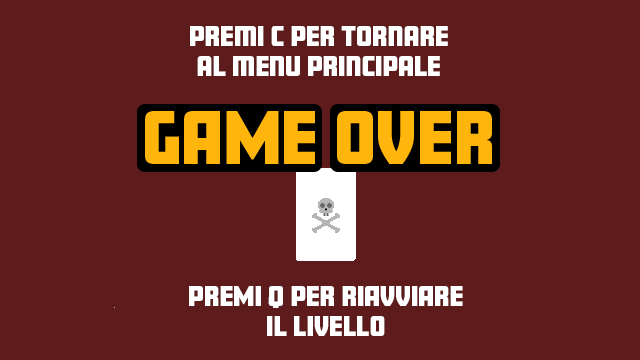
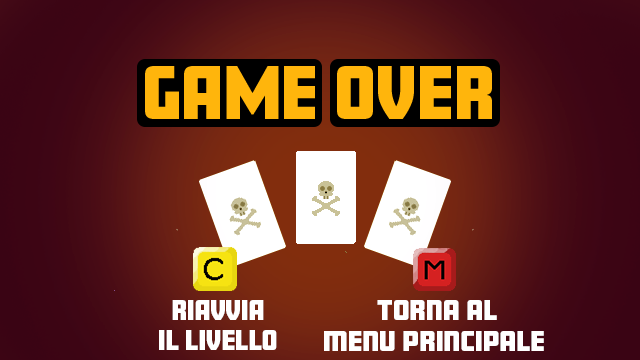
aggiunto checkpoint collezionabili, cassa nuova, schermata di morte

diff --git a/src/Scene/level1.js b/src/Scene/level1.js
@@ -1,4 +1,5 @@
 let bg;
+let bg_sopra;
 let sfondott0;
 let sfondott1;
 let sfondott2;
@@ -10,6 +11,7 @@ let img_volte;
 let volte_dietro;
 let img_slot_nuove;
 let colonne_davanti;
+let colonne_davanti_sopra;
 let slot_nuove;
 let img_moquette;
 let moquette;
@@ -113,6 +115,8 @@ function create (s) {
 
     bg = PP.assets.tilesprite.add(s, img_background, 0, 30, 2800, 380, 0, 0);
     bg.tile_geometry.scroll_factor_x = 0.1;
+    bg_sopra = PP.assets.tilesprite.add(s, img_background, 0, -600, 2800, 380, 0, 0);
+    bg_sopra.tile_geometry.scroll_factor_x = 0.1;
     
     volte_dietro = PP.assets.tilesprite.add(s, img_volte, -2000, 100, 20000, 453, 0, 0);
     volte_dietro.tile_geometry.scroll_factor_x = 0.1;
@@ -132,8 +136,14 @@ function create (s) {
     colonne_davanti = PP.assets.tilesprite.add(s, img_colonne, 0, 0, 2800, 650, 0, 0);
     colonne_davanti.tile_geometry.scroll_factor_x = 0;
 
+    colonne_davanti_sopra = PP.assets.tilesprite.add(s, img_colonne, 0, -650, 2800, 650, 0, 0);
+    colonne_davanti_sopra.tile_geometry.scroll_factor_x = 0;
+
+
     bg.geometry.scale_x = 1.7;
     bg.geometry.scale_y = 1.7;
+    bg_sopra.geometry.scale_x = 1.7;
+    bg_sopra.geometry.scale_y = 1.7;
     //bg.tile_geometry.scroll_factor_y = 0;
     //pavimento
     let bgtt0 = PP.assets.image.add(s, sfondott0, -3566, 0, 0, 0);
@@ -632,8 +642,10 @@ function create (s) {
 function update (s) {
 
     bg.tile_geometry.x = PP.camera.get_scroll_x(s) * 1/(2+1);
+    bg_sopra.tile_geometry.x = PP.camera.get_scroll_x(s) * 1/(2+1);
     slot_nuove.tile_geometry.x = PP.camera.get_scroll_x(s) * 0.8;
     colonne_davanti.tile_geometry.x = PP.camera.get_scroll_x(s) * 1.1;
+    colonne_davanti_sopra.tile_geometry.x = PP.camera.get_scroll_x(s) * 1.1;
     moquette.tile_geometry.x = PP.camera.get_scroll_x(s) * 1.1;
     //bg.tile_geometry.y = PP.camera.get_scroll_y(s);
 
@@ -675,8 +687,8 @@ function update (s) {
     // per porta finale
     
     if(chiusura_porta_finale == false){
-        porte[1].geometry.y = 0;
-        porte[1].geometry.body_y = 0;
+        porte[1].geometry.y = -50;
+        porte[1].geometry.body_y = -50;
     }
 
     if(chiusura_porta_finale == true){

diff --git a/src/Scene/level3.js b/src/Scene/level3.js
@@ -2,7 +2,6 @@ let img_pavimento;
 let img_muro;
 
 
-
 let img_bg3;
 
 let ascensore1_3;
@@ -29,6 +28,9 @@ function preload (s){
 }
 
 function create (s){
+    PP.game_state.set_variable("Monete_checkpoint", PP.game_state.get_variable("Monete"));
+    PP.game_state.set_variable("Lettere_checkpoint", PP.game_state.get_variable("Lettere"));
+
     PP.game_state.set_variable("Monete", 5);
     let bg = PP.assets.image.add (s, img_bg3, -20, -200, 0, 0);
     let bg_2 = PP.assets.image.add (s, img_bg3, 1180, -200, 0, 0);
@@ -96,12 +98,12 @@ function update (s){
 }
 
 function goto_final(s) {
-    if (PP.game_state.get_variable("Lettere") >= 6 && condizione_finale3 == true ) {
+    if (PP.game_state.get_variable("Lettere") >= 5 && condizione_finale3 == true ) {
         PP.scenes.start("Finale3");
         return;
     }
 
-    if (PP.game_state.get_variable("Lettere") >= 6 && condizione_finale3 == false ) {
+    if (PP.game_state.get_variable("Lettere") >= 5 && condizione_finale3 == false ) {
         PP.scenes.start("Finale2");
         return;
     }

diff --git a/src/Scene/morte3.js b/src/Scene/morte3.js
@@ -7,6 +7,8 @@ function preload (s) {
 }
 
 function create (s) {
+    PP.game_state.set_variable("Monete", PP.game_state.get_variable("Monete_checkpoint"));
+    PP.game_state.set_variable("Lettere", PP.game_state.get_variable("Lettere_checkpoint"));
     let mortis = PP.assets.image.add (s, sfondo_mortis2, 0, 0, 0, 0);
     mortis.geometry.scale_x = 2;
     mortis.geometry.scale_y = 2;    
@@ -51,11 +53,11 @@ function create (s) {
 
 function update (s) {
     
-    if(PP.interactive.kb.is_key_down(s, PP.key_codes.Q)) {
+    if(PP.interactive.kb.is_key_down(s, PP.key_codes.C)) {
         //riavvia la partita
         console.log("sus");
         PP.scenes.start("level3");
-        if(PP.interactive.kb.is_key_down(s, PP.key_codes.C)) {
+        if(PP.interactive.kb.is_key_down(s, PP.key_codes.M)) {
             //riavvia la partita
             console.log("sus");
             PP.scenes.start("Main_Menu");

diff --git a/src/Scene/morte2.js b/src/Scene/morte2.js
@@ -5,6 +5,8 @@ function preload (s) {
 }
 
 function create (s) {
+    PP.game_state.set_variable("Monete", PP.game_state.get_variable("Monete_checkpoint"));
+    PP.game_state.set_variable("Lettere", PP.game_state.get_variable("Lettere_checkpoint"));
     let mortis = PP.assets.image.add (s, sfondo_mortis, 0, 0, 0, 0);
     mortis.geometry.scale_x = 2;
     mortis.geometry.scale_y = 2;
@@ -48,11 +50,11 @@ function create (s) {
 
 function update (s) {
     
-    if(PP.interactive.kb.is_key_down(s, PP.key_codes.Q)) {
+    if(PP.interactive.kb.is_key_down(s, PP.key_codes.C)) {
         //riavvia la partita
         console.log("sus");
         PP.scenes.start("level2");
-        if(PP.interactive.kb.is_key_down(s, PP.key_codes.C)) {
+        if(PP.interactive.kb.is_key_down(s, PP.key_codes.M)) {
             //riavvia la partita
             console.log("sus");
             PP.scenes.start("Main_Menu");

diff --git a/index.html b/index.html
@@ -4,7 +4,6 @@
         <title>I compari mulattieri</title>
         <script src="lib/phaser.min.js"></script>
         <script src="lib/poliphaser.js"></script>
-        <script src="src/Scene/Main_Menu.js" type="module"></script>
         <script src="src/Scene/level2.js" type="module"></script>
         <script src="src/Scene/Storia.js" type="module"></script>
         <script src="src/Scene/Crediti.js" type="module"></script>
@@ -13,7 +12,8 @@
         <script src="src/Scene/Finale3.js" type="module"></script>
         <script src="src/Scene/level1.js" type="module"></script>
         <script src="src/Scene/level3.js" type="module"></script>
-        
+        <script src="src/Scene/Main_Menu.js" type="module"></script>
+
         
 
         <script src="src/Scene/morte.js" type="module"></script>

diff --git a/src/Scene/morte.js b/src/Scene/morte.js
@@ -6,6 +6,8 @@ function preload (s) {
 }
 
 function create (s) {
+    PP.game_state.set_variable("Monete", 0);
+    PP.game_state.set_variable("Lettere", 0);
     let mortis = PP.assets.image.add (s, sfondo_mortis0, 0, 0, 0, 0);
     mortis.geometry.scale_x = 2;
     mortis.geometry.scale_y = 2;
@@ -49,13 +51,13 @@ function create (s) {
 
 function update (s) {
     
-    if(PP.interactive.kb.is_key_down(s, PP.key_codes.Q)) {
+    if(PP.interactive.kb.is_key_down(s, PP.key_codes.C)) {
         //riavvia la partita
         console.log("sus");
         PP.scenes.start("level1");
     }
 
-    if(PP.interactive.kb.is_key_down(s, PP.key_codes.C)) {
+    if(PP.interactive.kb.is_key_down(s, PP.key_codes.M)) {
         //riavvia la partita
         console.log("sus");
         PP.scenes.start("Main_Menu");

diff --git a/src/Scene/level2.js b/src/Scene/level2.js
@@ -34,6 +34,11 @@ let ILBUCO;
 let ILBUCOscenico;
 
 
+
+  //score_attuale2_1 = PP.game_state.get_variable("Monete");
+    //score_attuale2_2 = PP.game_state.get_variable("Lettere");
+    
+
 livello.push(2);
 
 
@@ -84,11 +89,13 @@ function preload (s) {
 
 function create (s) {
 
+    PP.game_state.set_variable("Monete_checkpoint", PP.game_state.get_variable("Monete"));
+    PP.game_state.set_variable("Lettere_checkpoint", PP.game_state.get_variable("Lettere"));
+    
     
     //zona iniziale
    
-
-    
+  
     
     bg3 = PP.assets.tilesprite.add(s, sfondo23, 0, -140, 0, 0, 0, 0);
     bg3.tile_geometry.scroll_factor_x = 0;

diff --git a/src/Collezionabili.js b/src/Collezionabili.js
@@ -7,6 +7,10 @@ let monete_conto;
 PP.game_state.set_variable ("Lettere", 0);
 PP.game_state.set_variable ("Monete", 0);
 
+PP.game_state.set_variable ("Lettere_checkpoint", 0);
+PP.game_state.set_variable ("Monete_checkpoint", 0);
+
+
 function preload_score (s) {
     img_lettera = PP.assets.image.load(s, "assets/immagini/Lettera.PNG", 150, 156);
     img_monete = PP.assets.image.load(s, "assets/immagini/Fiches.PNG", 150, 156);
